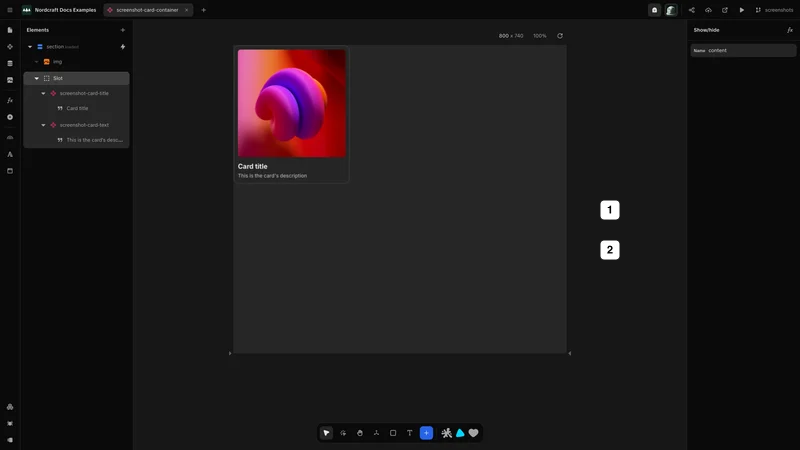
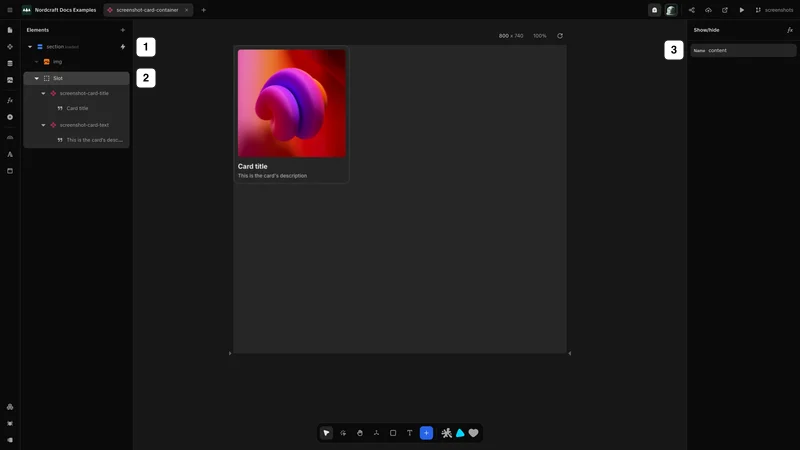
More screenshots and annotations

diff --git a/scripts/capture-screenshots.ts b/scripts/capture-screenshots.ts
@@ -524,8 +524,9 @@ export const TARGETS: ScreenshotTarget[] = [
       await page.waitForTimeout(500)
     },
     annotations: [
-      { type: 'badge', x: 600, y: 200, text: '1' },
-      { type: 'badge', x: 600, y: 240, text: '2' },
+      { type: 'badge', x: 136, y: 37, text: '1' },
+      { type: 'badge', x: 136, y: 68, text: '2' },
+      { type: 'badge', x: 664, y: 40, text: '3' },
     ],
   },
 
@@ -538,6 +539,25 @@ export const TARGETS: ScreenshotTarget[] = [
     description: 'Slot element view',
     setup: async (page: Page) => {
       await page.waitForTimeout(500)
+    },
+    annotations: [
+      { type: 'badge', x: 60, y: 20, text: '1' },
+      { type: 'badge', x: 60, y: 24, text: '2' },
+    ],
+  },
+
+  // Export a component
+  {
+    id: 'export-a-component',
+    name: 'export-a-component',
+    outputDir: 'docs/components/export-a-component',
+    path: '/projects/docs_examples/branches/screenshots/components/card?mode=design&canvas-tool=select&canvas-width=800&rightpanel=style',
+    description: 'Slot element view',
+    setup: async (page: Page) => {
+      await page.waitForTimeout(500)
+      await page.getByRole('button', { name: 'Preview component' }).click()
+      await page.getByRole('button', { name: 'Web component exported' }).click()
+      await page.waitForTimeout(300)
     },
     annotations: [
       { type: 'badge', x: 60, y: 20, text: '1' },

diff --git a/scripts/record.ts b/scripts/record.ts
@@ -3,7 +3,7 @@ import { chromium } from 'playwright'
 import { setupPageMocks, TARGETS } from './capture-screenshots'
 
 const DEFAULT_BASE_URL =
-  process.env.EDITOR_BASE_URL || 'https://screenshots-3-0-toddle.nordcraft.site'
+  process.env.EDITOR_BASE_URL || 'https://editor.nordcraft.com'
 
 async function main() {
   const args = process.argv.slice(2)
